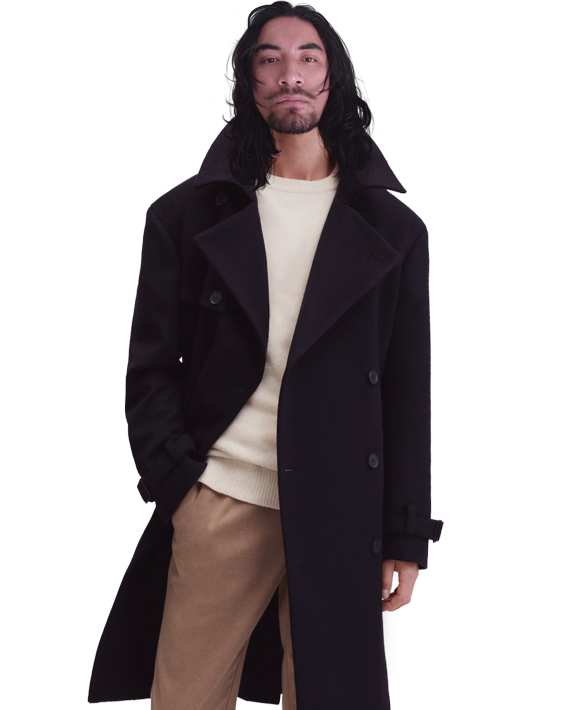
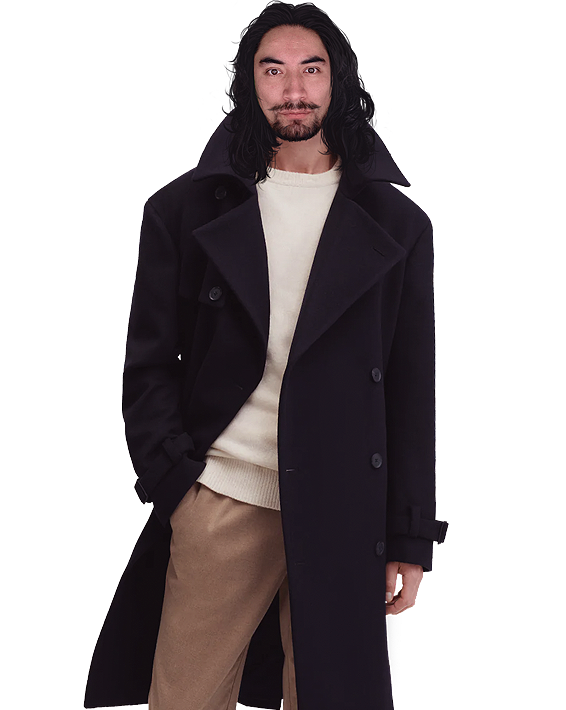
update profile image & add footer to AppWrap

diff --git a/frontend/src/wrapper/AppWrap.js b/frontend/src/wrapper/AppWrap.js
@@ -9,8 +9,8 @@ const AppWrap = (Component, idName, classNames) => function HOC() {
         <Component />
 
         <div className="copyright">
-          <p className="p-text"></p>
-          <p className="p-text"></p>
+          <p className="p-text">David Vera</p>
+          <p className="p-text">2022</p>
         </div>
       </div>
       <NavigationDots active={idName} />
